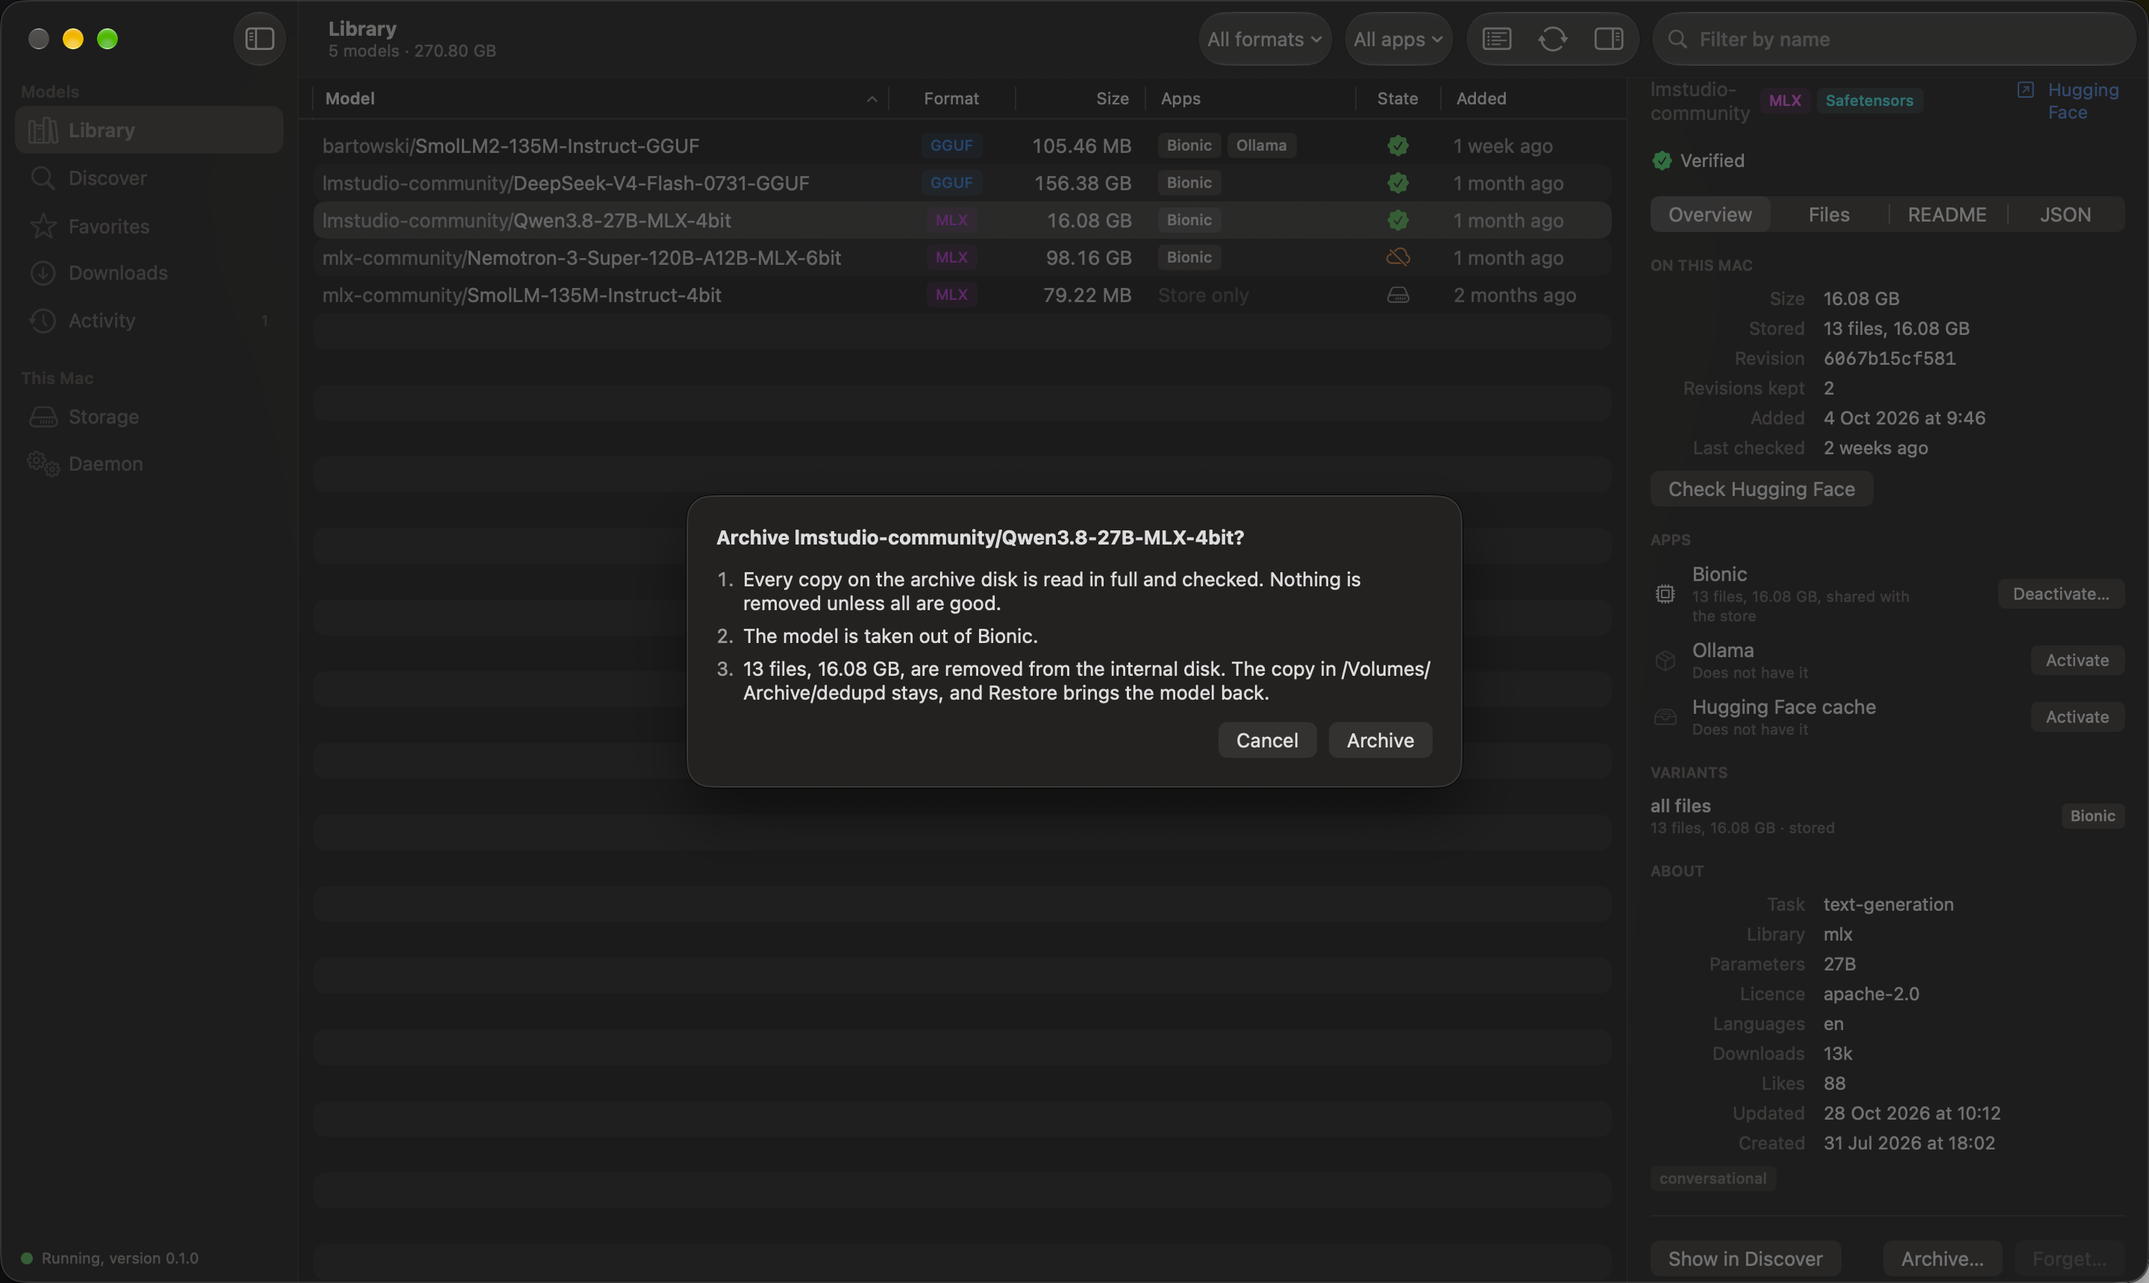
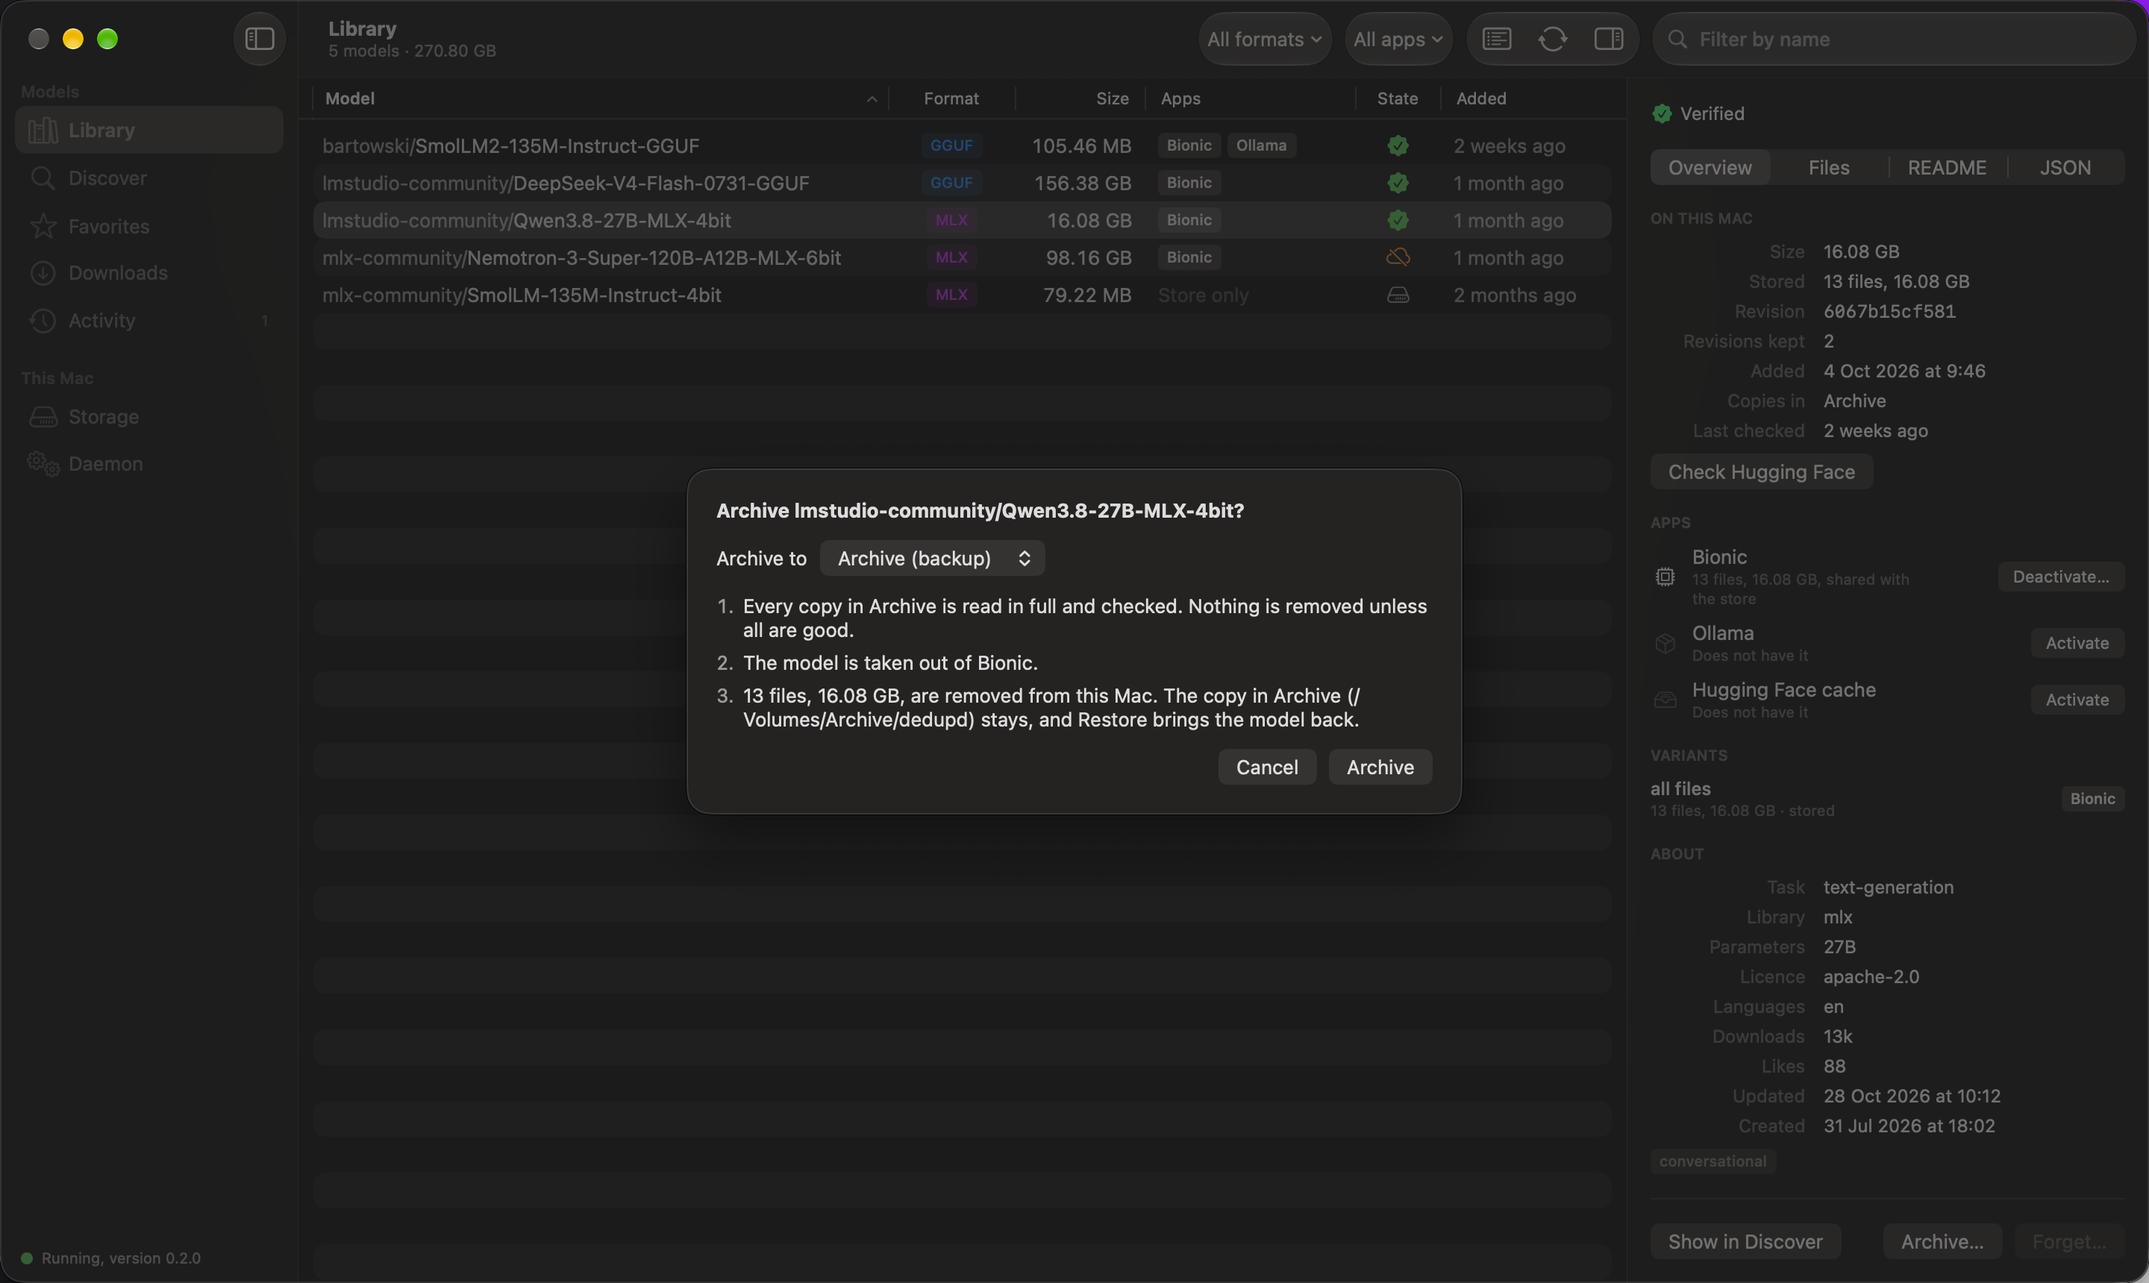
Review: detached archives are not missing, known folders stay as they are
A check of the store counts a file as not looked for when any archive's
disk is away, not only the backup's. set_archives leaves a folder that
is an archive already as it is, so sending the list again never moves
an archive whose folder is not named dedupd. gc removes an orphan's
copies from every archive and keeps its record while any is away. The
archive list is not changed while an archive or restore runs (409).
Archive lookups take the list once per operation. dedupd status lists
every archive. The Archive sheet waits for the plan of the archive
picked; the rename sheet has identifiers; the UI tests and the docs'
pictures show the Archives card.

diff --git a/macos-app/DedupdUITests/DedupdUITests.swift b/macos-app/DedupdUITests/DedupdUITests.swift
@@ -128,6 +128,7 @@ final class DedupdUITests: XCTestCase {
         element("archive-model", in: window).click()
         XCTAssertTrue(element("confirm-archive", in: window).exists, "nothing is archived before the owner has seen what it does")
         XCTAssertTrue(element("archive-steps", in: window).label.contains("The model is taken out of Bionic."))
+        XCTAssertTrue(element("archive-to", in: window).exists, "with two archives, the owner chooses")
         screenshot(window, "05-archive-a-model")
 
         element("confirm-archive", in: window).click()
@@ -212,7 +213,9 @@ final class DedupdUITests: XCTestCase {
         let window = launch("running", pane: "storage")
 
         XCTAssertTrue(element("location-store", in: window).exists)
-        XCTAssertTrue(element("location-archive", in: window).exists)
+        XCTAssertTrue(element("archive-Archive", in: window).exists, "each archive has its row")
+        XCTAssertTrue(element("archive-Drawer", in: window).exists)
+        XCTAssertTrue(element("add-archive", in: window).exists)
         XCTAssertTrue(element("sharing-saves", in: window).exists)
         XCTAssertTrue(element("check-result", in: window).exists)
         screenshot(window, "11-storage")
@@ -254,7 +257,7 @@ final class DedupdUITests: XCTestCase {
         XCTAssertTrue(text("Running, version \(appVersion)", in: window).waitForExistence(timeout: 5))
         XCTAssertEqual(element("tile-store", in: window).label, "Store, 275.72 GB, 61 files")
         XCTAssertEqual(element("tile-shared", in: window).label, "Shared with apps, 270.83 GB, not stored twice")
-        XCTAssertEqual(element("tile-archive", in: window).label, "Archive, Attached, dedupd")
+        XCTAssertEqual(element("tile-archive", in: window).label, "Archives, 2 of 2 attached, backup: Archive")
         XCTAssertTrue(labelled("Downloading, 41.94 MB of 106.07 MB", in: window).exists, "the download in flight")
         XCTAssertTrue(element("open-main", in: window).isEnabled)
         screenshot(window, "16-menu-panel")

diff --git a/macos-app/Dedupd/Views/Library/ArchiveSheet.swift b/macos-app/Dedupd/Views/Library/ArchiveSheet.swift
@@ -6,6 +6,11 @@ struct ArchiveSheet: View {
     let plan: ArchivePlan
 
     @Environment(LibraryStore.self) private var library
+    /// The archive the owner picked, while the plan for it is asked for.
+    /// Archive waits until the plan on screen is that archive's.
+    @State private var picked: String?
+
+    private var isReplanning: Bool { picked.map { $0 != plan.archiveName } ?? false }
 
     var body: some View {
         VStack(alignment: .leading, spacing: 12) {
@@ -13,8 +18,11 @@ struct ArchiveSheet: View {
                 .font(.headline)
             if library.archiveChoices.count > 1 {
                 Picker("Archive to", selection: Binding(
-                    get: { plan.archiveName },
-                    set: { name in Task { await library.planArchive(to: name) } }
+                    get: { picked ?? plan.archiveName },
+                    set: { name in
+                        picked = name
+                        Task { await library.planArchive(to: name) }
+                    }
                 )) {
                     ForEach(library.archiveChoices) { archive in
                         Text(verbatim: archive.backup ? "\(archive.name) (backup)" : archive.name)
@@ -76,7 +84,7 @@ struct ArchiveSheet: View {
                 Button("Archive", role: .destructive) {
                     Task { await library.applyArchive() }
                 }
-                .disabled(plan.isEmpty)
+                .disabled(plan.isEmpty || isReplanning)
                 .accessibilityIdentifier("confirm-archive")
             }
         }

diff --git a/macos-app/Dedupd/Views/Storage/ArchivesCard.swift b/macos-app/Dedupd/Views/Storage/ArchivesCard.swift
@@ -232,6 +232,7 @@ private struct RenameArchiveSheet: View {
                 .font(.headline)
             TextField("Name", text: $name)
                 .textFieldStyle(.roundedBorder)
+                .accessibilityIdentifier("rename-archive-name")
             if let problem {
                 FailureLabel(message: problem)
             }
@@ -249,6 +250,7 @@ private struct RenameArchiveSheet: View {
                 }
                 .keyboardShortcut(.defaultAction)
                 .disabled(name.trimmingCharacters(in: .whitespaces).isEmpty)
+                .accessibilityIdentifier("confirm-rename-archive")
             }
         }
         .padding(20)

diff --git a/crates/dedupd-core/src/maintain.rs b/crates/dedupd-core/src/maintain.rs
@@ -156,6 +156,9 @@ pub fn verify(db: &Mutex<Db>, store: &Store, archive: bool, jobs: usize) -> Resu
         (false, _) => store.home().clone(),
     };
 
+    // Taken once: the archives are asked about every file that is not here.
+    let attached = store.attached_archives();
+    let some_away = store.archives().iter().any(|a| !a.home.attached());
     let next = AtomicUsize::new(0);
     // Set when the archive disk goes away while it is being checked.
     let gone = std::sync::atomic::AtomicBool::new(false);
@@ -174,9 +177,11 @@ pub fn verify(db: &Mutex<Db>, store: &Store, archive: bool, jobs: usize) -> Resu
                         let mut r = report.lock().expect("lock");
                         if archive && store.contains(&blob.sha256) {
                             r.not_backed_up += 1;
-                        } else if !archive && store.in_an_archive(&blob.sha256) {
+                        } else if !archive && crate::store::in_any(&attached, &blob.sha256) {
                             r.only_in_archive += 1;
-                        } else if !archive && store.archive().is_some_and(|a| !a.attached()) {
+                        } else if !archive && some_away {
+                            // Any archive whose disk is away may hold it:
+                            // a cold archive is detached most of the time.
                             r.archive_away += 1;
                         } else {
                             r.missing.push(blob.sha256.clone());
@@ -311,10 +316,11 @@ pub fn gc_apply(db: &Mutex<Db>, store: &Store, plan: &GcPlan) -> Result<u64> {
         Ok(blob.size)
     };
     let mut freed = 0;
-    // An archive disk that is away: the orphans' local copies go, and
-    // their records stay, so a later `gc` with the disk attached still
+    // An archive whose disk is away: the orphans' local copies go, and
+    // their records stay, so a later `gc` with every disk attached still
     // knows of the copies there and removes them.
-    let archive_away = store.archive().is_some_and(|a| !a.attached());
+    let archives = store.archives();
+    let archive_away = archives.iter().any(|a| !a.home.attached());
     for blob in &plan.orphans {
         {
             // Asked again, and removed, under the database lock: a model
@@ -331,8 +337,10 @@ pub fn gc_apply(db: &Mutex<Db>, store: &Store, plan: &GcPlan) -> Result<u64> {
                 db.delete_blob(&blob.sha256)?;
             }
         }
-        if let Some(archive) = store.archive().filter(|_| !archive_away) {
-            let _ = fs::remove_file(archive.blob_path(&blob.sha256));
+        if !archive_away {
+            for archive in &archives {
+                let _ = fs::remove_file(archive.home.blob_path(&blob.sha256));
+            }
         }
     }
     // The local copy of a file to offload goes only once the archive disk's
@@ -494,6 +502,7 @@ pub fn unplace_plan(
     // Whether the model can leave Ollama whole: every file of it goes, is
     // gone already, or stays only for another model.
     let mut whole = true;
+    let attached = store.attached_archives();
     for p in placed {
         let reason = match Fingerprint::of(Path::new(&p.path)) {
             Err(_) => Some(Kept::Gone),
@@ -502,7 +511,7 @@ pub fn unplace_plan(
             Ok(_) if used_elsewhere.contains(p.derived_sha256.as_ref().unwrap_or(&p.sha256)) => {
                 Some(Kept::UsedByAnotherModel)
             }
-            Ok(_) if !store.contains(&p.sha256) && !store.in_an_archive(&p.sha256) => {
+            Ok(_) if !store.contains(&p.sha256) && !crate::store::in_any(&attached, &p.sha256) => {
                 Some(Kept::NoStoredCopy)
             }
             Ok(_) => None,

diff --git a/crates/dedupd-core/src/config.rs b/crates/dedupd-core/src/config.rs
@@ -257,6 +257,22 @@ impl Config {
         archives: &[NamedArchive],
         backup: Option<&std::path::Path>,
     ) -> Result<Self> {
+        // A folder that is an archive already stays as it is, whatever its
+        // name and whether its disk is attached: the app sends the whole
+        // list with every change. Only a newly picked folder gets the
+        // `dedupd` folder in it.
+        let known: Vec<PathBuf> = Self::load(home)?
+            .archive_list()
+            .into_iter()
+            .map(|a| a.home.root().to_path_buf())
+            .collect();
+        let folder = |picked: &std::path::Path| {
+            if known.iter().any(|k| k == picked) {
+                picked.to_path_buf()
+            } else {
+                archive_folder_for(picked)
+            }
+        };
         let mut list: Vec<NamedArchive> = Vec::new();
         for a in archives {
             if !a.path.is_absolute() {
@@ -265,7 +281,7 @@ impl Config {
                     a.path.display()
                 );
             }
-            let path = archive_folder_for(&a.path);
+            let path = folder(&a.path);
             let name = match a.name.trim() {
                 "" => default_archive_name(&path),
                 name => name.to_string(),
@@ -287,7 +303,7 @@ impl Config {
         let backup = match backup {
             None => None,
             Some(b) => {
-                let b = archive_folder_for(b);
+                let b = folder(b);
                 if !list.iter().any(|a| a.path == b) {
                     anyhow::bail!(
                         "the backup archive {} is not one of the archives",
@@ -452,6 +468,37 @@ mod tests {
         assert_eq!(
             std::fs::read_to_string(Config::path(&home)).unwrap(),
             "# mine\nverify_days = 30\n"
+        );
+
+        // An archive written before, whose folder is not named dedupd and
+        // whose disk is away, keeps its folder when the list is sent again.
+        let ext = std::path::PathBuf::from("/Volumes/Ext/models-backup");
+        std::fs::write(
+            Config::path(&home),
+            "archive = \"/Volumes/Ext/models-backup\"\n",
+        )
+        .unwrap();
+        let mut again: Vec<NamedArchive> = Config::load(&home)
+            .unwrap()
+            .archive_list()
+            .into_iter()
+            .map(|a| NamedArchive {
+                name: a.name,
+                path: a.home.root().to_path_buf(),
+            })
+            .collect();
+        again.push(NamedArchive {
+            name: "NAS".into(),
+            path: nas.clone(),
+        });
+        let kept = Config::set_archives(&home, &again, Some(&ext)).unwrap();
+        assert_eq!(kept.archive.as_ref(), Some(&ext));
+        assert_eq!(
+            kept.archive_list()
+                .iter()
+                .map(|a| (a.name.as_str(), a.home.root().to_path_buf()))
+                .collect::<Vec<_>>(),
+            [("Ext", ext.clone()), ("NAS", nas.clone())]
         );
     }
 

diff --git a/crates/dedupd-core/src/store.rs b/crates/dedupd-core/src/store.rs
@@ -132,11 +132,11 @@ impl Store {
         &self.home
     }
 
-    /// Whether an attached archive has the file.
+    /// Whether an attached archive has the file. Asks for the list of
+    /// archives on each call; a loop over many files takes
+    /// `attached_archives` once and asks `in_any`.
     pub fn in_an_archive(&self, sha256: &str) -> bool {
-        self.attached_archives()
-            .iter()
-            .any(|a| a.home.blob_path(sha256).is_file())
+        in_any(&self.attached_archives(), sha256)
     }
 
     /// The home of the backup archive, when one is configured; its disk
@@ -385,6 +385,11 @@ impl Store {
         }
         Ok(Added::Stored)
     }
+}
+
+/// Whether one of `archives` has the file.
+pub fn in_any(archives: &[Archive], sha256: &str) -> bool {
+    archives.iter().any(|a| a.home.blob_path(sha256).is_file())
 }
 
 /// A temp file named as a copy on its way into the store or the archive:

diff --git a/crates/dedupd-server/src/control.rs b/crates/dedupd-server/src/control.rs
@@ -565,6 +565,18 @@ pub(crate) async fn handle(server: &Arc<Server>, call: &Call, rest: &[&str]) -> 
             }
         }
         (&Method::PUT, ["config", "archives"]) => {
+            // The move names its archive in the events; the list does not
+            // change under it.
+            if let Some(now) = server.moving.borrow().as_ref().filter(|m| m.running) {
+                return error(
+                    StatusCode::CONFLICT,
+                    format!(
+                        "dedupd is working on {} ({}); change the archives when that has finished",
+                        now.repo,
+                        now.kind.as_str()
+                    ),
+                );
+            }
             let wanted: ArchivesBody = match body(call) {
                 Ok(b) => b,
                 Err(refused) => return *refused,

diff --git a/crates/dedupd-core/tests/pull.rs b/crates/dedupd-core/tests/pull.rs
@@ -501,6 +501,14 @@ async fn a_model_is_archived_to_the_archive_named_and_restored_from_it() {
         last[0].text
     );
 
+    // The drawer is unplugged, as a cold archive mostly is: a check of the
+    // store counts the model's files as not looked for, never as missing.
+    fs::rename(dir.path().join("drawer"), dir.path().join("drawer-away")).unwrap();
+    let check = dedupd_core::maintain::verify(&e.db, &e.store, false, 1).unwrap();
+    assert!(check.missing.is_empty(), "{:?}", check.missing);
+    assert_eq!(check.archive_away, plan.remove.len());
+    fs::rename(dir.path().join("drawer-away"), dir.path().join("drawer")).unwrap();
+
     let restore_plan = archive::restore_plan(&e.db, &e.store, REPO).unwrap();
     assert_eq!(restore_plan.archives, ["Drawer"]);
     archive::restore(&e.db, &e.store, REPO, &mut |_| {}).unwrap();

diff --git a/crates/dedupd-core/src/library.rs b/crates/dedupd-core/src/library.rs
@@ -244,6 +244,7 @@ pub fn model(
     for p in &placements {
         holders.entry(&p.sha256).or_default().insert(p.app);
     }
+    let attached = store.attached_archives();
     let mut revisions = Vec::new();
     let mut readme = None;
     for (row, entries) in rows.iter().zip(&listed) {
@@ -259,7 +260,9 @@ pub fn model(
                 git_oid: e.git_oid.clone(),
                 lfs: e.lfs_sha256.is_some(),
                 stored,
-                archived: sha.as_deref().is_some_and(|s| store.in_an_archive(s)),
+                archived: sha
+                    .as_deref()
+                    .is_some_and(|s| crate::store::in_any(&attached, s)),
                 apps: sha
                     .as_deref()
                     .and_then(|s| holders.get(s))

diff --git a/crates/dedupd/src/main.rs b/crates/dedupd/src/main.rs
@@ -588,11 +588,13 @@ fn cmd_status(o: &Opened, json: bool) -> Result<()> {
         "  {} of app files share these blocks instead of being copies",
         human(s.shared_bytes)
     );
-    if let Some(a) = o.config.archive_home() {
+    for a in o.engine.store.archives() {
         println!(
-            "Archive: {}{}",
-            a.root().display(),
-            if a.attached() {
+            "Archive {}{}: {}{}",
+            a.name,
+            if a.backup { " (backup)" } else { "" },
+            a.home.root().display(),
+            if a.home.attached() {
                 ""
             } else {
                 " (disk not attached)"

diff --git a/docs/command-line.md b/docs/command-line.md
@@ -59,7 +59,7 @@ The apps are named `bionic`, `ollama` and `hf` (the Hugging Face cache; `mlx` an
 | Command | What it does |
 |---|---|
 | `dedupd forget <repo>` | Say what dropping a model from the library would drop; `--apply` drops its records, so `gc` can remove its files. Refused while an app holds the model. |
-| `dedupd gc` | Show stored files nothing refers to; `--apply` removes them. `--offload` also lists local copies of files that are on the archive disk and in no app, each with the model and path it is kept under where a kept model lists it. |
+| `dedupd gc` | Show stored files nothing refers to; `--apply` removes them, here and in every archive (while an archive's disk is away, their records stay so a later `gc` removes the copies there). `--offload` also lists local copies of files that are in the backup archive and in no app, each with the model and path it is kept under where a kept model lists it. |
 
 ## The daemon
 
